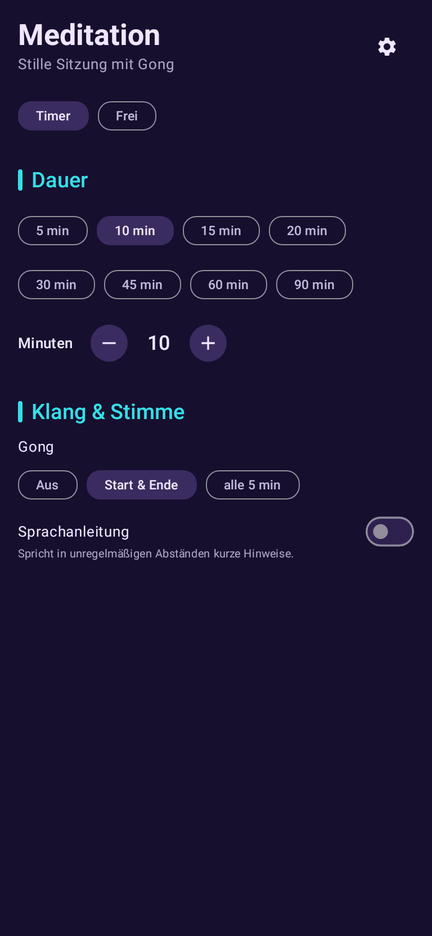
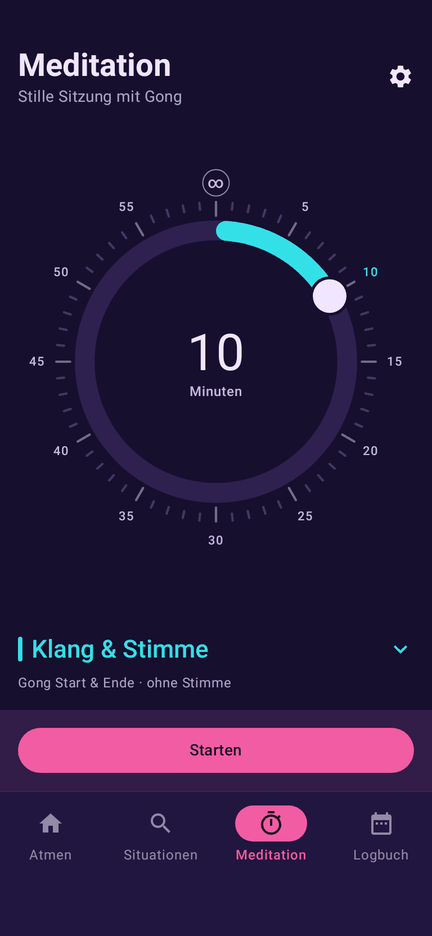
fix: Öffentliche Texte auf Stand 1.6.5, Heilversprechen-Prüfung auch für README und Store
- README: Stand Version 1.6.5 (Markierungen „ab Version 1.6.0“ bleiben, SECURITY.md
  Schritt 2), Meditation mit Zeitring 1–60 min oder ∞, Logbuch nach Heute/Gestern/Woche/Monat,
  Leeren unter Einstellungen → Daten, Sitzung mit Fortschrittsbogen, Ruhe-Ansicht und Bilanz,
  Markierung „Tut mir gut“; Projektstand ohne die Liste „Seitdem auf main“ (DOC-1)
- Store-Text full_description.txt mit denselben Sätzen (3737 von 4000 Zeichen), Disclaimer
  unverändert wörtlich
- README-Bilder neu aus a54/fs100 (01_atmen, 09_session_einatmen, 02_situationen,
  03_meditation, 04_logbuch), 432 × 936 px wie bisher
- PRIVACY.md: Löschweg Logbuch über Einstellungen → Daten, Markierung „Tut mir gut“,
  Benachrichtigungs-Flag und Rücksetz-Marke im Gespeicherten; Zeitring-Rasten folgen der
  Android-Einstellung, nicht dem Schalter „Vibration“ (auch README); Stand 2026-10-19 (DOC-2)
- SECURITY.md: unterstützte Version 1.6.x, DataStore-Inhalt und VIBRATE nachgezogen;
  Release-Checkliste um Funktionsliste, Store-Text, Datenschutzerklärung, README-Bilder und
  das Anhören der neuronalen Stimme in der Release-APK ergänzt
- bug_report.yml: Platzhalter 1.6.5
- ContentRulesTest health-claims-public (README, PRIVACY, Release-Notes, fastlane je Zeile,
  scharf ohne Baseline) und store-disclaimer (SEC-LEGAL-02 wörtlich) ersetzen die offenen
  sec-health-claims/sec-store-disclaimer (DOC-3); Probelauf mit „lindert“ in einer
[…]

diff --git a/app/src/test/java/app/atemkraft/data/ContentRulesTest.kt b/app/src/test/java/app/atemkraft/data/ContentRulesTest.kt
@@ -14,7 +14,8 @@ import java.io.File
 /**
  * Inhaltsregeln aus STYLEGUIDE §11 (TEXT-02, -04 … -06, -09 … -13), MUSTER-03, -09 und
  * MOTION-02, geprüft über alle Fachinhalte: eingebaute Übungen samt Yoga-Lehre, Muster des Tages
- * (Seeds 0–6), Atemlehre, Situationen samt Suchbegriffen, Quellen und `strings.xml`.
+ * (Seeds 0–6), Atemlehre, Situationen samt Suchbegriffen, Quellen und `strings.xml`; dazu die
+ * öffentlichen Texte (README, Datenschutzerklärung, Release-Notes, Store) auf Heilversprechen.
  *
  * Bekannte Verstöße stehen in `config/content-baseline.txt` (`Testfall | Datensatz | S-nn`).
  * Ein Fall schlägt fehl bei einem neuen Verstoß und bei einem Baseline-Eintrag, der nicht mehr
@@ -284,26 +285,54 @@ class ContentRulesTest {
             .filter { it.isNotBlank() && !it.trimStart().startsWith("#") }
     }
 
-    @Test
-    fun `health-claims`() {
-        val findings = allTexts.flatMap { t ->
-            // Eine Ausnahme deckt nur Treffer innerhalb ihres eigenen Wortlauts ab, nicht den
-            // ganzen Datensatz – ein zweites Versprechen im selben Text fällt weiter auf.
-            val allowed = healthClaimsAllow.flatMap { a ->
-                Regex(Regex.escape(a)).findAll(t.value).map { it.range }.toList()
-            }
-            healthClaims.flatMap { re -> re.findAll(t.value).toList() }
-                .filter { m -> allowed.none { m.range.first >= it.first && m.range.last <= it.last } }
-                .map { m -> Finding(t.id, "„${m.value}“") }
+    private fun healthClaimFindings(texts: List<Text>): List<Finding> = texts.flatMap { t ->
+        // Eine Ausnahme deckt nur Treffer innerhalb ihres eigenen Wortlauts ab, nicht den
+        // ganzen Datensatz – ein zweites Versprechen im selben Text fällt weiter auf.
+        val allowed = healthClaimsAllow.flatMap { a ->
+            Regex(Regex.escape(a)).findAll(t.value).map { it.range }.toList()
         }
-        // TEXT-09 lässt für Heilversprechen keine Baseline zu: jeder Fund ist ein Fehler, nur
-        // bewusste Verneinungen und Disclaimer stehen zeilengenau in health-claims.allow.
-        if (baseline["health-claims"].orEmpty().isNotEmpty()) {
-            fail("ContentRulesTest health-claims: keine Baseline erlaubt (TEXT-09), Einträge streichen")
+        healthClaims.flatMap { re -> re.findAll(t.value).toList() }
+            .filter { m -> allowed.none { m.range.first >= it.first && m.range.last <= it.last } }
+            .map { m -> Finding(t.id, "„${m.value}“") }
+    }
+
+    /**
+     * TEXT-09 lässt für Heilversprechen keine Baseline zu: jeder Fund ist ein Fehler, nur
+     * bewusste Verneinungen und Disclaimer stehen zeilengenau in health-claims.allow.
+     */
+    private fun assertNoHealthClaims(case: String, findings: List<Finding>) {
+        if (baseline[case].orEmpty().isNotEmpty()) {
+            fail("ContentRulesTest $case: keine Baseline erlaubt (TEXT-09), Einträge streichen")
         }
         if (findings.isNotEmpty()) {
-            fail("ContentRulesTest health-claims:\n" + findings.joinToString("\n") { "  ${it.dataset} – ${it.why}" })
+            fail("ContentRulesTest $case:\n" + findings.joinToString("\n") { "  ${it.dataset} – ${it.why}" })
         }
+    }
+
+    @Test
+    fun `health-claims`() {
+        assertNoHealthClaims("health-claims", healthClaimFindings(allTexts))
+    }
+
+    /**
+     * Öffentliche Texte außerhalb der App (SEC-LEGAL-01): README, Datenschutzerklärung,
+     * Release-Notes und Store-Texte samt Changelogs, je Zeile ein Datensatz `datei:zeile`.
+     */
+    private val publicTexts: List<Text> by lazy {
+        val files = listOf(repoFile("README.md"), repoFile("docs/PRIVACY.md")) +
+            repoFile("docs/release-notes").listFiles { f -> f.extension == "md" }.orEmpty().sorted() +
+            repoFile("fastlane/metadata/android/de-DE").walkTopDown().filter { it.isFile && it.extension == "txt" }.sorted()
+        val root = repoFile("README.md").absoluteFile.parentFile
+        files.filter { it.isFile }.flatMap { f ->
+            val name = f.absoluteFile.relativeTo(root).path
+            f.readLines().mapIndexed { i, line -> Text("$name:${i + 1}", line) }
+        }
+    }
+
+    @Test
+    fun `health-claims-public`() {
+        assumeTrue("README.md fehlt", repoFile("README.md").isFile)
+        assertNoHealthClaims("health-claims-public", healthClaimFindings(publicTexts))
     }
 
     // ---- TEXT-05: Jargon ----------------------------------------------------------------
@@ -504,6 +533,18 @@ class ContentRulesTest {
             f.readText().trim().takeIf { it.length > 500 }?.let { Finding("fastlane:changelogs/${f.name}", "${it.length} Zeichen > 500") }
         }
         assertAgainstBaseline("store-lengths", findings)
+    }
+
+    /** Der Disclaimer aus SECURITY.md SEC-LEGAL-02 steht wörtlich in der Store-Beschreibung. */
+    @Test
+    fun `store-disclaimer`() {
+        val file = repoFile("fastlane/metadata/android/de-DE/full_description.txt")
+        assumeTrue("fastlane/ gibt es noch nicht", file.isFile)
+        val disclaimer = "Kein Medizinprodukt; diagnostiziert, behandelt, heilt oder verhindert keine Erkrankung. " +
+            "Für medizinischen Rat wende dich an Fachpersonal."
+        if (disclaimer !in file.readText()) {
+            fail("ContentRulesTest store-disclaimer: full_description.txt enthält den Disclaimer aus SEC-LEGAL-02 nicht wörtlich")
+        }
     }
 
     // ---- Pfade --------------------------------------------------------------------------

diff --git a/docs/SECURITY.md b/docs/SECURITY.md
@@ -18,7 +18,7 @@ Sicherheits-, Datenschutz-, Lieferketten- und Release-Regeln für Atemkraft (`ap
 | Eingangsbestätigung | in der Regel innerhalb von 7 Tagen (Ein-Personen-Projekt) |
 | Ersteinschätzung | innerhalb von 30 Tagen |
 | Fix und Offenlegung | koordiniert; Ziel ist ein Fix innerhalb von 90 Tagen, danach ein GitHub Security Advisory mit Nennung (auf Wunsch) |
-| Unterstützte Version | nur die jeweils neueste Release-Version (derzeit 1.5.x), keine Backports |
+| Unterstützte Version | nur die jeweils neueste Release-Version (derzeit 1.6.x), keine Backports |
 | Nicht im Scope | gerootete oder kompromittierte Geräte, Reverse Engineering, fehlende Obfuskation oder Tamper-Erkennung (die App ist Open Source und enthält keine Geheimnisse) |
 
 ### Echtheit einer APK prüfen
@@ -51,9 +51,9 @@ Atemkraft ist **offline-first**: kein Konto, kein Server, keine Telemetrie, kein
 
 | Speicherort | Inhalt | Sensitivität | Gerät-zu-Gerät / Export | Löschweg |
 |---|---|---|---|---|
-| Room `log_entries` | Art (Atemübung/Meditation), Übung, Zeitpunkt, Dauer, Runden | gesundheitsnah, niedrig (Übungs-IDs können auf Erkrankungen hindeuten) | je nach Hersteller (ab Android 12) / nein | „Logbuch leeren“, App-Speicher löschen |
+| Room `log_entries` | Art (Atemübung/Meditation), Übung, Zeitpunkt, Dauer, Runden | gesundheitsnah, niedrig (Übungs-IDs können auf Erkrankungen hindeuten) | je nach Hersteller (ab Android 12) / nein | *Einstellungen → Daten → „Logbuch leeren“* (zweistufig), App-Speicher löschen |
 | Room `saved_patterns` | Name, Phasenlängen, Art (`activating`: aktivierend ja/nein) und Speicherzeitpunkt eigener Muster | niedrig | je nach Hersteller (ab Android 12) / ja (mit Anpassung) | einzeln löschen |
-| DataStore `settings` | Einstellungen (inkl. bestätigter Sicherheitshinweis `safety_acknowledged`), Anpassungen pro Übung, Aufklapp-Zustand „Meine Muster“ (`saved_patterns_expanded`), ob die Benachrichtigungs-Erlaubnis schon erfragt wurde (`notification_asked`) | niedrig | je nach Hersteller (ab Android 12) / nur Anpassungen gespeicherter Muster | zurücksetzen pro Übung, App-Speicher löschen |
+| DataStore `settings` | Einstellungen (inkl. bestätigter Sicherheitshinweis `safety_acknowledged`), Anpassungen pro Übung, Markierungen „Tut mir gut“ (`marked_exercises`), Aufklapp-Zustand „Meine Muster“ (`saved_patterns_expanded`), ob die Benachrichtigungs-Erlaubnis schon erfragt wurde (`notification_asked`), Zeitpunkt eines Zurücksetzens nach beschädigter Datei (`settings_reset_at`) | niedrig | je nach Hersteller (ab Android 12) / nur Anpassungen gespeicherter Muster | zurücksetzen pro Übung, App-Speicher löschen |
 | `files/tts/` | Stimmmodelle (öffentliche Daten, bis ca. 130 MB), beim Entpacken ein Zwischenordner `.<stimme>.staging` | keine | nein / nein | „Stimme löschen“ |
 | `cache/` | Teil-Download | keine | nein / nein | bei Abbruch oder Fehler sofort; nach Prozess-Ende beim nächsten Download-Versuch; Android leert `cache/` bei Speichermangel |
 | Activity-Zustand (flüchtig, `rememberSaveable`) | Suchtext der Befindens-Suche (SEC-PRIV-06) | gesundheitsnah | nein / nein | Suche schließen (X, Zurück, „Alle zeigen“), App beenden |
@@ -68,7 +68,7 @@ Vollständige Allowlist für das gemergte Release-Manifest (`config/security/per
 | Berechtigung | Zweck |
 |---|---|
 | `INTERNET` | nur der optionale Stimm-Download |
-| `VIBRATE` | Haptik bei Phasenwechseln und Tipp-Tick am Kreis (beides hinter dem Schalter „Vibration“) |
+| `VIBRATE` | Haptik bei Phasenwechseln und Tipp-Tick am Kreis (beides hinter dem Schalter „Vibration“); Rasten des Zeitrings als Berührungs-Feedback (`USAGE_TOUCH`, folgt der Android-Einstellung) |
 | `WAKE_LOCK` | Meditations-Timer im Doze-Modus (`PARTIAL_WAKE_LOCK`) |
 | `FOREGROUND_SERVICE`, `FOREGROUND_SERVICE_MEDIA_PLAYBACK` | Meditation läuft bei gesperrtem Bildschirm weiter |
 | `POST_NOTIFICATIONS` | Status der Meditation; einmal erfragt beim ersten Meditationsstart, bei Ablehnung läuft der Timer weiter |
@@ -172,8 +172,8 @@ Atemkraft ist eine Wellness-App und **kein Medizinprodukt** (MDR 2017/745, Erwä
 
 | ID | Stufe | Regel | Warum | Prüfung |
 |---|---|---|---|---|
-| SEC-LEGAL-01 | DARF NICHT | Heil-, Therapie-, Linderungs- oder Präventionsversprechen in App, README, Store-Texten, Datenschutzerklärung oder Release-Notes. Wortliste: STYLEGUIDE TEXT-09, maschinenlesbar `config/health-claims.txt`; Ausnahmen (Verneinungen, Disclaimer) nur zeilengenau in `config/health-claims.allow`. | Sonst Medizinprodukt bzw. irreführende Werbung (HWG § 3); Play Health Policy. | auto: `ContentRulesTest`, `sec-health-claims`, CI `release-verify` |
-| SEC-LEGAL-02 | MUSS | Die Store-Beschreibung enthält: „Kein Medizinprodukt; diagnostiziert, behandelt, heilt oder verhindert keine Erkrankung. Für medizinischen Rat wende dich an Fachpersonal.“ Mess-, Diagnose- oder Auswertungsfunktionen mit gesundheitlicher Bewertung kommen erst nach einer MDR-Neubewertung in diesem Dokument; vor einer Monetarisierung wird der EU Cyber Resilience Act neu bewertet. | Play Health Content Policy; MDR Rule 11; CRA-FOSS-Ausnahme gilt nur ohne Monetarisierung. | auto: `sec-store-disclaimer`; manuell: Review |
+| SEC-LEGAL-01 | DARF NICHT | Heil-, Therapie-, Linderungs- oder Präventionsversprechen in App, README, Store-Texten, Datenschutzerklärung oder Release-Notes. Wortliste: STYLEGUIDE TEXT-09, maschinenlesbar `config/health-claims.txt`; Ausnahmen (Verneinungen, Disclaimer) nur zeilengenau in `config/health-claims.allow`. | Sonst Medizinprodukt bzw. irreführende Werbung (HWG § 3); Play Health Policy. | auto: `ContentRulesTest` (`health-claims` für Inhalte und `strings.xml`, `health-claims-public` für die öffentlichen Texte), CI `release-verify` |
+| SEC-LEGAL-02 | MUSS | Die Store-Beschreibung enthält: „Kein Medizinprodukt; diagnostiziert, behandelt, heilt oder verhindert keine Erkrankung. Für medizinischen Rat wende dich an Fachpersonal.“ Mess-, Diagnose- oder Auswertungsfunktionen mit gesundheitlicher Bewertung kommen erst nach einer MDR-Neubewertung in diesem Dokument; vor einer Monetarisierung wird der EU Cyber Resilience Act neu bewertet. | Play Health Content Policy; MDR Rule 11; CRA-FOSS-Ausnahme gilt nur ohne Monetarisierung. | auto: `ContentRulesTest store-disclaimer`; manuell: Review |
 | SEC-LEGAL-03 | MUSS | Nur FLOSS-Abhängigkeiten. Jede gebündelte oder ladbare Komponente und Stimme hat eine Lizenz, die Weiterverbreitung erlaubt, und steht mit ihr in den Credits (App und THIRD_PARTY_LICENSES.md; README, Store-Texte und PRIVACY.md verweisen darauf, ohne Stimmen einzeln aufzuzählen). Keine Stimmen aus urheberrechtlich geschütztem Material; NC-Lizenzen nur als deklarierte Ausnahme (Anti-Feature). Lizenztexte und NOTICE-Dateien liegen im APK; für GPL-Bestandteile ist der Upstream-Quellstand genannt. | Urheberrecht; Apache-2.0 § 4, GPL-3.0 § 6; F-Droid und Play. | auto: JUnit `VoiceCatalogTest` (Lizenzfeld), `apk-licenses`; manuell: Credits |
 
 **Ist-Stand SEC-LEGAL-03 (2026-10-08):** Lizenzliste in [THIRD_PARTY_LICENSES.md](../THIRD_PARTY_LICENSES.md), Lizenztexte und NOTICE in der APK unter `assets/licenses/`, Liste in der App unter *Über → Lizenzen*, Lizenz je Stimme im Katalog. GLaDOS ist seit 1.6.0 entfernt (Nutzerentscheidung 2026-10-08: keine Lizenzangabe, laut Autor aus Spieldateien von Valve trainiert), samt Hörprobe; ein schon geladenes Modell löscht die App beim Start (`deleteOrphanVoiceDirs`), eine gespeicherte Wahl verwirft sie. **Deklarierte Ausnahme NC:** Miro und Dii stehen unter CC BY-NC-ND 4.0 (nur nicht kommerziell). Nutzerentscheidung 2026-10-08: behalten, weil Atemkraft kostenlos und werbefrei ist; bei jeder kommerziellen Nutzung (Preis, Werbung, Spenden-Paywall, Verkauf) neu prüfen. Stimmenauswahl und Lizenzliste in der App zeigen „nur nicht kommerziell“ (`VoiceSpec.nonCommercialOnly`, abgeleitet aus der Lizenz); ihre Hörproben liegen in der APK. Für F-Droid bzw. IzzyOnDroid ist das Anti-Feature *NonFreeAssets* zu deklarieren. Stimmen stehen nur in `VoiceCatalog.kt` und THIRD_PARTY_LICENSES.md (`LicenseInventoryTest`); eine Stimme hinzufügen oder entfernen heißt: Katalog, Lizenzliste, Hörprobe.
@@ -181,7 +181,7 @@ Atemkraft ist eine Wellness-App und **kein Medizinprodukt** (MDR 2017/745, Erwä
 <a id="automatische-pruefung"></a>
 ## Automatische Prüfung
 
-Gemeinsame Infrastruktur (`scripts/check.sh`, `lint {}`, `.github/workflows/ci.yml`) spezifiziert der STYLEGUIDE; hier stehen die Sicherheits-Checks. Die statischen Checks (`sec-*`, Werkzeug **check-style**) stehen seit 2026-10-19 in `scripts/check_style.py` und laufen bei jedem `scripts/check.sh`, also auch im CI: gleiche Engine und Fixtures (`config/style-fixtures/sec-*.{pos,neg}`, `--self-test`) wie die Stil-Checks, aber mit Null-Toleranz ohne Baseline – ein Baseline-Eintrag für einen `sec-*`-Check ist selbst ein Fehler. Zeilen, die mit `//`, `/*` oder `*` beginnen, gelten als Kommentar; die Stil-Marker `// dekorativ:` und `// Abweichung <ID>:` heben einen `sec-*`-Treffer nicht auf (`--self-test` prüft das mit einer Gegenprobe je Fixture). Soll-Setup, noch nicht vorhanden: `verify-apk`, `check-github`, `release-verify` sowie die mit **offen** markierten Checks.
+Gemeinsame Infrastruktur (`scripts/check.sh`, `lint {}`, `.github/workflows/ci.yml`) spezifiziert der STYLEGUIDE; hier stehen die Sicherheits-Checks. Die statischen Checks (`sec-*`, Werkzeug **check-style**) stehen seit 2026-10-19 in `scripts/check_style.py` und laufen bei jedem `scripts/check.sh`, also auch im CI: gleiche Engine und Fixtures (`config/style-fixtures/sec-*.{pos,neg}`, `--self-test`) wie die Stil-Checks, aber mit Null-Toleranz ohne Baseline – ein Baseline-Eintrag für einen `sec-*`-Check ist selbst ein Fehler. Zeilen, die mit `//`, `/*` oder `*` beginnen, gelten als Kommentar; die Stil-Marker `// dekorativ:` und `// Abweichung <ID>:` heben einen `sec-*`-Treffer nicht auf (`--self-test` prüft das mit einer Gegenprobe je Fixture). Die Prüfung öffentlicher Texte auf Heilversprechen und den Store-Disclaimer übernimmt der JUnit-Test `ContentRulesTest` (`health-claims-public`, `store-disclaimer`), weil er Wortliste und Ausnahmen schon für die App-Inhalte liest. Soll-Setup, noch nicht vorhanden: `verify-apk`, `check-github`, `release-verify` sowie die mit **offen** markierten Teile.
 
 ```bash
 scripts/check.sh                                     # Stil- und sec-*-Checks, ktlint, Tests, Lint
@@ -213,8 +213,8 @@ scripts/check-github.sh                              # Soll: Repo-Einstellungen 
 | `sec-secrets` | check-style | SEC-BUILD-02 | in getrackten und neuen, nicht ignorierten Dateien keine Zeile `^(store\|key)Password\s*[=:]`. Ignorierte Dateien (z. B. `keystore.properties` im Root) prüft der Check nicht; dass sie außerhalb des Repo-Baums liegen, sichert Checkliste Schritt 15. **Offen:** `.claude/settings.json` mit Deny-Regeln für `Read(**/keystore.properties)`, `Read(**/*.keystore)`, `Read(**/*.jks)` (liegt nicht im Repo) |
 | `sec-gitignore` | check-style | SEC-REPO-01 | `git check-ignore -q` greift (per Repo-`.gitignore`) für `x.jks`, `x.p12`, `sub/keystore.properties`, `x.idsig`, `.claude/settings.local.json` |
 | `sec-actions` | check-style | SEC-REPO-03, SEC-SUP-03 | jedes `uses:` in `.github/workflows/*.yml` endet auf `@[0-9a-f]{40}`; `permissions:` auf oberster Ebene; `persist-credentials: false`; `.github/dependabot.yml` hat `package-ecosystem` `gradle` und `github-actions` mit `interval: monthly` und `groups:` |
-| `sec-health-claims` | **offen** | SEC-LEGAL-01 | Wortliste `config/health-claims.txt` (ohne Groß-/Kleinschreibung, Wortgrenzen) in `README.md`, `fastlane/metadata/**`, `docs/PRIVACY.md`, `docs/release-notes/*.md` → 0, außer Zeilen aus `config/health-claims.allow` |
-| `sec-store-disclaimer` | **offen** | SEC-LEGAL-02 | `full_description.txt` enthält den Disclaimer-Satz aus SEC-LEGAL-02 wörtlich (fester String) |
+| `health-claims-public` | JUnit `ContentRulesTest` | SEC-LEGAL-01 | Wortliste `config/health-claims.txt` (ohne Groß-/Kleinschreibung, Wortgrenzen) in `README.md`, `fastlane/metadata/**`, `docs/PRIVACY.md`, `docs/release-notes/*.md` → 0, außer Zeilen aus `config/health-claims.allow`; je Zeile ein Datensatz `datei:zeile`, ohne Baseline |
+| `store-disclaimer` | JUnit `ContentRulesTest` | SEC-LEGAL-02 | `full_description.txt` enthält den Disclaimer-Satz aus SEC-LEGAL-02 wörtlich (fester String) |
 | `apk-cert` | verify-apk | SEC-BUILD-01 | `apksigner verify --print-certs`: Signer = `75022def…1890`; unsigniert ist immer ein Fehler, `CN=Android Debug` ebenso (`--allow-debug-cert` nur für CI-Testbuilds) |
 | `apk-permissions` | verify-apk | SEC-PERM-01 | `aapt2 dump permissions` = `config/security/permissions.allow` |
 | `apk-exported` | verify-apk | SEC-PLAT-01 | Komponenten mit `exported=true` ⊆ `config/security/exported.allow` |
@@ -233,11 +233,11 @@ scripts/check-github.sh                              # Soll: Repo-Einstellungen 
 **Ist-Stand (2026-10-19):** Die statischen `sec-*`-Checks laufen in `scripts/check.sh` (Schritt 1). `scripts/verify-apk.sh`, `scripts/check-github.sh` und der CI-Job `release-verify` sind Soll-Setup und gibt es noch nicht; die Schritte nennen dafür den manuellen Ersatz. Bis v1.5.1 waren die Tags nicht annotiert, und der Release-Commit enthielt die Versionsänderung selbst.
 
 1. `git status` leer, `main` gepusht, `scripts/check.sh` grün.
-2. `versionCode` +1, `versionName` gesetzt; Release-Notes `docs/release-notes/vX.Y.Z.md` und Changelog `fastlane/metadata/android/de-DE/changelogs/<versionCode>.txt` geschrieben (SEC-LEGAL-01). Die Notes-Datei enthält nur die Änderungen; SHA-256 und Fingerprint kommen in Schritt 7 dazu. Versionsangaben nachziehen: „Neueste Version“ im README, „Unterstützte Version“ in diesem Dokument und der Stand in `THIRD_PARTY_LICENSES.md`; Markierungen „ab Version X.Y.Z“ in README und Datenschutzerklärung bleiben gültig.
+2. `versionCode` +1, `versionName` gesetzt; Release-Notes `docs/release-notes/vX.Y.Z.md` und Changelog `fastlane/metadata/android/de-DE/changelogs/<versionCode>.txt` geschrieben (SEC-LEGAL-01). Die Notes-Datei enthält nur die Änderungen; SHA-256 und Fingerprint kommen in Schritt 7 dazu. Versionsangaben nachziehen: „Neueste Version“ im README, „Unterstützte Version“ in diesem Dokument und der Stand in `THIRD_PARTY_LICENSES.md`; Markierungen „ab Version X.Y.Z“ in README und Datenschutzerklärung bleiben gültig. Inhalte nachziehen: Funktionsliste im README und `fastlane/metadata/android/de-DE/full_description.txt` (gleiche Sätze), Datenschutzerklärung samt Berechtigungstabelle gegen den Code, bei sichtbaren Änderungen die README-Bilder `docs/screenshot-*.png` (aus den Roborazzi-Bildern `a54/fs100`: `01_atmen`, `09_session_einatmen`, `02_situationen`, `03_meditation`, `04_logbuch`, obere Bildschirmhöhe 768 × 1664 px auf 432 × 936 px verkleinert).
 3. Release-Commit `vX.Y.Z: …` und annotierter Tag `git tag -a vX.Y.Z` gepusht.
 4. Im frischen Worktree des Tags mit JDK 17 bauen: `git worktree add ../atemkraft-rel vX.Y.Z`, dort mit `ATEMKRAFT_KEYSTORE_PROPERTIES=<pfad>` (`storeFile` absolut oder relativ zur Properties-Datei) `scripts/build.sh clean assembleRelease`; Signatur-Geheimnisse nach SEC-BUILD-02. Fehlt der Key, entsteht nur eine unsignierte APK (Warnung), die Schritt 5 abfängt.
 5. `scripts/verify-apk.sh <apk> --tag vX.Y.Z` grün. Mindestens: `apksigner verify --print-certs` zeigt `75022def…1890`, **Abbruch bei unsignierter APK oder `CN=Android Debug`**. Solange das Skript fehlt: `$ANDROID_HOME/build-tools/<version>/apksigner verify --print-certs <apk>` muss `Signer #1 certificate DN: CN=grenzenloseSchublade, O=Atemkraft` und `Signer #1 certificate SHA-256 digest: 75022defe65aa24e223f3e79880f09f423456757002ff0b33ba2ae29b9f41890` zeigen.
-6. Auf einem Gerät als Update über die Vorversion installieren: kein Signaturkonflikt, Logbuch bleibt, kurzer Test von Atem-Session, Meditation und Stimme.
+6. Auf einem Gerät als Update über die Vorversion installieren: kein Signaturkonflikt, Logbuch bleibt, kurzer Test von Atem-Session, Meditation und Stimme. Die neuronale Stimme einmal in der Release-APK anhören: Der Release-Build in `check.sh` prüft R8 und Shrinking nur beim Bauen, einen JNI-Bruch zur Laufzeit findet erst das Gerät.
 7. APK als `atemkraft-vX.Y.Z.apk` benennen; Release-Body als eigene Datei außerhalb des Repo-Baums = Notes-Datei + Block mit SHA-256 (`sha256sum atemkraft-vX.Y.Z.apk`, Zeile „SHA-256 der APK:“ wie bei v1.5.1) und Verweis auf den Fingerprint ([Echtheit einer APK prüfen](#echtheit-einer-apk-prüfen)), dazu ein Satz zu Quellcode und Lizenzen neben der APK (GPL-3.0 § 6): Quellcode dieses Releases ist der Tag `vX.Y.Z`, der Quellstand der Native-Bibliotheken steht in [THIRD_PARTY_LICENSES.md](../THIRD_PARTY_LICENSES.md#quellcode).
 8. `gh release create vX.Y.Z atemkraft-vX.Y.Z.apk --title … --notes-file <datei>`. Ein Asset wird nie ersetzt (SEC-BUILD-05).
 9. CI `release-verify` grün, sonst manuell: Asset mit `gh release download vX.Y.Z` laden, `sha256sum` mit dem Release-Body und `apksigner` wie in Schritt 5 vergleichen.

diff --git a/README.md b/README.md
@@ -8,10 +8,10 @@ Atemkraft ist eine Wellness-App und kein Medizinprodukt. Sie ersetzt keinen Rat 
 
 <p>
   <img src="docs/screenshot-atmen.png" width="160" alt="Tab Atmen: Muster des Tages und Liste der Atemübungen">
-  <img src="docs/screenshot-sitzung.png" width="160" alt="Laufende Sitzung: Atemkreis mit „Einatmen“ und Sekunden-Zähler">
+  <img src="docs/screenshot-sitzung.png" width="160" alt="Laufende Sitzung: Atemkreis mit „Einatmen“, Sekunden und Fortschrittsbogen">
   <img src="docs/screenshot-situationen.png" width="160" alt="Tab Situationen: Meine Muster und Anlässe wie „Vor dem Einschlafen“">
-  <img src="docs/screenshot-meditation.png" width="160" alt="Tab Meditation: Dauer, Gong und Sprachanleitung">
-  <img src="docs/screenshot-logbuch.png" width="160" alt="Tab Logbuch: Wochenübersicht und abgeschlossene Sitzungen">
+  <img src="docs/screenshot-meditation.png" width="160" alt="Tab Meditation: Zeitring für die Dauer, darunter Klang und Stimme">
+  <img src="docs/screenshot-logbuch.png" width="160" alt="Tab Logbuch: Wochenübersicht und Sitzungen nach Heute, Gestern und Woche">
 </p>
 
 **Inhalt:** [Funktionen](#funktionen) · [Installieren](#installieren) · [Datenschutz](#datenschutz) · [Rückmeldung](#rueckmeldung) · [Mitmachen](#mitmachen) · [Aus dem Quellcode bauen](#bauen) · [Projektstand](#projektstand) · [Lizenz](#lizenz)
@@ -19,14 +19,14 @@ Atemkraft ist eine Wellness-App und kein Medizinprodukt. Sie ersetzt keinen Rat 
 <a id="funktionen"></a>
 ## Funktionen
 
-Beschrieben ist der aktuelle Entwicklungsstand (`main`). Was die neueste Release-Version 1.5.1 noch nicht hat, ist mit *ab Version 1.6.0* markiert.
+Beschrieben ist der aktuelle Entwicklungsstand (`main`), Stand Version 1.6.5. Was es erst ab Version 1.6.0 gibt, ist mit *ab Version 1.6.0* markiert.
 
-- **Atmen:** 18 Atemtechniken in vier Gruppen (Herunterregeln, Hochregeln, Balancieren, Funktionell), z. B. Resonanz-Atmung, 4-7-8, Box-Atmung, Lippenbremse. Jede Übung hat Anleitung, Einordnung der Studienlage, Sicherheitshinweise und Quellenangaben, in der Regel mit DOI oder PMID. Ein Etikett zeigt die Studienlage auf einen Blick: „gut belegt“ (Meta-Analyse oder mehrere unabhängige Studien), „in Studien geprüft“ (Studien gibt es, aber wenige, kleine oder nur in bestimmten Gruppen) oder „kaum untersucht“ (plausibel, aber kaum direkt erforscht). Bei getakteten Übungen lassen sich Ein-, Aus- und Halte-Zeiten anpassen; die Anpassung bleibt pro Übung gespeichert. Vor Wim Hof und Feueratmung erscheint ein Sicherheitshinweis, beim ersten Mal immer.
-- **Sitzung:** Der Kreis wächst beim Einatmen und schrumpft beim Ausatmen. Wahlweise Wechseltöne oder ein durchgehender Ton, dazu Vibration bei jedem Phasenwechsel; alles abschaltbar. Eine laufende Sitzung lässt sich zu einer Leiste verkleinern.
+- **Atmen:** 18 Atemtechniken in vier Gruppen (Herunterregeln, Hochregeln, Balancieren, Funktionell), z. B. Resonanz-Atmung, 4-7-8, Box-Atmung, Lippenbremse. Jede Übung hat Anleitung, Einordnung der Studienlage, Sicherheitshinweise und Quellenangaben, in der Regel mit DOI oder PMID. Ein Etikett zeigt die Studienlage auf einen Blick: „gut belegt“ (Meta-Analyse oder mehrere unabhängige Studien), „in Studien geprüft“ (Studien gibt es, aber wenige, kleine oder nur in bestimmten Gruppen) oder „kaum untersucht“ (plausibel, aber kaum direkt erforscht). Bei getakteten Übungen lassen sich Ein-, Aus- und Halte-Zeiten anpassen; die Anpassung bleibt pro Übung gespeichert. Vor Wim Hof und Feueratmung erscheint ein Sicherheitshinweis, beim ersten Mal immer. Übungen, die dir guttun, markierst du auf der Detailseite mit dem Atemkreis-Symbol „Tut mir gut“; die Liste zeigt die Markierung.
+- **Sitzung:** Der Kreis wächst beim Einatmen und schrumpft beim Ausatmen; ein Bogen um den Kreis zeigt, wie weit die Sitzung ist. Ein Tipp neben den Kreis blendet die Bedienelemente aus (Ruhe-Ansicht), ein zweiter holt sie zurück. Am Ende fragt die App „Wie fühlst du dich?“ und zeigt eine kurze Bilanz mit Runden, Dauer und Atemzügen. Wahlweise Wechseltöne oder ein durchgehender Ton, dazu Vibration bei jedem Phasenwechsel; alles abschaltbar. Eine laufende Sitzung lässt sich zu einer Leiste verkleinern.
 - **Muster des Tages:** jeden Tag ein neues, zufällig erzeugtes Atemmuster, gleich für alle am selben Tag. Es bleibt in festen Grenzen und zählt in ganzen Sekunden (ruhige Muster: 9–13 s pro Atemzug, Ausatmen mindestens so lang wie Einatmen, Halten höchstens 4 s; sanft aktivierende: 6–9 s, Einatmen länger als Ausatmen, Halten höchstens 2 s). Seine Einordnung nach der Yoga-Lehre steht auf der Detailseite. Gedacht als Abwechslung, ohne Wirkversprechen. Muster lassen sich neu würfeln und speichern; gespeicherte stehen unter „Meine Muster“.
 - **Situationen:** Einstiege nach Anlass, etwa „Vor dem Einschlafen“ oder „Konzentration & Fokus“, mit passenden Übungen. *Ab Version 1.6.0* mit Suche nach deinem Befinden („Wie fühlst du dich?“): Sie läuft ohne Netz und wird nicht gespeichert.
-- **Meditation:** Timer (Schnellwahl 5–90 min, frei 1–120 min) oder offene Sitzung mit Stoppuhr. Gong aus, zu Start und Ende oder in festen Abständen. Optional eine gesprochene Anleitung: mit der Sprachausgabe deines Geräts oder mit einer ladbaren deutschen Stimme, die du vorher anhören kannst. Die Meditation läuft auch bei ausgeschaltetem Bildschirm weiter.
-- **Logbuch:** abgeschlossene Sitzungen mit Wochenübersicht, Tagen in Folge und Minuten gesamt; lässt sich jederzeit leeren.
+- **Meditation:** Die Dauer stellst du an einem Zeitring ein: 1–60 min in Minutenschritten oder ∞ für eine offene Sitzung mit Stoppuhr. Gong aus, zu Start und Ende oder in festen Abständen. Optional eine gesprochene Anleitung: mit der Sprachausgabe deines Geräts oder mit einer ladbaren deutschen Stimme, die du vorher anhören kannst. Die Meditation läuft auch bei ausgeschaltetem Bildschirm weiter.
+- **Logbuch:** abgeschlossene Sitzungen, gegliedert nach Heute, Gestern, Woche und Monat, dazu Wochenübersicht, Tage in Folge und Minuten gesamt. Leeren lässt es sich in den Einstellungen unter „Daten“.
 - **Begriffe erklärt:** ein Glossar für Fachwörter wie HRV oder Vagus.
 - **Daten sichern** (*ab Version 1.6.0*): gespeicherte Muster als Datei exportieren und wieder importieren, an einen Ort deiner Wahl.
 
@@ -72,7 +72,7 @@ Alle Einzelheiten, auch was bis Version 1.5.1 anders ist: [Datenschutzerklärung
 | Berechtigung | Wofür |
 |---|---|
 | `INTERNET` | nur das Laden einer Stimme |
-| `VIBRATE` | fühlbare Phasenwechsel und ein kurzer Tick beim Antippen des Kreises; mit dem Schalter „Vibration“ abschaltbar, den Tick erst ab Version 1.6.0 |
+| `VIBRATE` | fühlbare Phasenwechsel und ein kurzer Tick beim Antippen des Kreises; beides folgt dem Schalter „Vibration“, den Tick erst ab Version 1.6.0. Die Rasten des Zeitrings sind Berührungs-Feedback und folgen der Android-Einstellung dafür (ab 1.6.5) |
 | `WAKE_LOCK` | hält den Prozessor während einer Meditation wach, damit Gongs pünktlich kommen |
 | `FOREGROUND_SERVICE`, `FOREGROUND_SERVICE_MEDIA_PLAYBACK` | Meditation läuft bei ausgeschaltetem Bildschirm weiter |
 | `POST_NOTIFICATIONS` | Benachrichtigung „Meditation läuft“ mit „Beenden“; ohne sie läuft der Timer trotzdem |
@@ -118,7 +118,7 @@ ui/       theme/, components/ und je Screen ein Paket
 <a id="projektstand"></a>
 ## Projektstand
 
-- **Neueste Version:** [1.5.1](https://github.com/grenzenloseSchublade/atemkraft/releases/latest). Seitdem auf `main`: Befindens-Suche, Export und Import der Muster, kein Cloud-Backup mehr, die Stimme GLaDOS entfernt (keine Lizenz), Feinschliff an Schrift und Bedienelementen sowie viele kleine Korrekturen.
+- **Neueste Version:** 1.6.5 (Tag `v1.6.5`); was sich je Version geändert hat, steht in [docs/release-notes](docs/release-notes). Die APKs veröffentlichter Versionen liegen unter [Releases](https://github.com/grenzenloseSchublade/atemkraft/releases).
 - **Verteilung:** GitHub-Releases. Wegen der vorkompilierten sherpa-onnx-Bibliothek (`app/libs/*.aar`) passt die App nicht ins Haupt-Repo von F-Droid, das alles aus dem Quellcode baut; IzzyOnDroid wäre ein passender Kanal.
 - **Ideen:** eigene Übungen per Editor, Wear OS, Widgets. Eine eigene Stimme für die Meditationsanleitung: Anleitung in [docs/VOICE_CLONING.md](docs/VOICE_CLONING.md).
 - **iOS:** Recherche und Plan, noch nicht umgesetzt: [docs/IOS_PLAN.md](docs/IOS_PLAN.md).

diff --git a/docs/PRIVACY.md b/docs/PRIVACY.md
@@ -2,7 +2,7 @@
 
 Für die Android-App Atemkraft (`app.atemkraft`), wie sie über dieses Repo und seine GitHub-Releases verteilt wird.
 
-- **Stand:** 2026-10-08, geprüft gegen den Quellcode auf `main` an diesem Tag. Wo sich die veröffentlichte Version 1.5.1 davon unterscheidet, steht es dabei ([Stimm-Download](#netz), [Cloud-Backup](#wechsel), [Berechtigungen](#berechtigungen)); Befindens-Suche sowie Export und Import der Muster gibt es erst ab Version 1.6.0.
+- **Stand:** 2026-10-19, geprüft gegen Version 1.6.5 und den Quellcode auf `main` an diesem Tag. Wo sich die veröffentlichte Version 1.5.1 davon unterscheidet, steht es dabei ([Stimm-Download](#netz), [Cloud-Backup](#wechsel), [Berechtigungen](#berechtigungen)); Befindens-Suche sowie Export und Import der Muster gibt es erst ab Version 1.6.0.
 - **Anbieter:** grenzenloseSchublade, Maintainer von [github.com/grenzenloseSchublade/atemkraft](https://github.com/grenzenloseSchublade/atemkraft). Kontakt siehe [unten](#kontakt).
 
 ## Kurzfassung
@@ -15,9 +15,9 @@ Alles liegt im privaten Speicher der App, den andere Apps nicht lesen können. D
 
 | Ort | Inhalt | So löschst du es |
 |---|---|---|
-| Logbuch (Datenbank) | abgeschlossene Sitzungen: Übung bzw. Meditation, Zeitpunkt, Dauer, Runden | „Logbuch leeren“ im Logbuch; App-Speicher löschen |
+| Logbuch (Datenbank) | abgeschlossene Sitzungen: Übung bzw. Meditation, Zeitpunkt, Dauer, Runden *Einstellungen → Daten → „Logbuch leeren“* (ein zweiter Tipp bestätigt); App-Speicher löschen |
 | Eigene Muster (Datenbank) | Name, Phasenlängen und Art (aktivierend oder nicht) gespeicherter Muster, Zeitpunkt des Speicherns | einzeln löschen unter „Meine Muster“ |
-| Einstellungen | Ton, Haptik, Hinweise (auch, ob du den Sicherheitshinweis vor intensiven Übungen bestätigt hast), Meditation, gewählte Stimme, Anpassungen pro Übung, ob „Meine Muster“ aufgeklappt ist | pro Übung zurücksetzen; App-Speicher löschen |
+| Einstellungen | Ton, Haptik, Hinweise (auch, ob du den Sicherheitshinweis vor intensiven Übungen bestätigt hast), Meditation, gewählte Stimme, Anpassungen pro Übung, Übungen, die du mit „Tut mir gut“ markiert hast, ob „Meine Muster“ aufgeklappt ist, ob die App schon nach der Benachrichtigung gefragt hat und, falls die Einstellungsdatei einmal beschädigt war, wann die App sie zurückgesetzt hat | Anpassungen pro Übung zurücksetzen; Markierung durch erneutes Antippen aufheben; App-Speicher löschen |
 | Stimmen | heruntergeladene Stimmmodelle (öffentliche Dateien; die Größe zeigt die App vor dem Laden) | „Stimme löschen“ in den Einstellungen. Die bis Version 1.5.1 angebotene Stimme GLaDOS löscht die App ab Version 1.6.0 beim Start selbst |
 | Zwischenspeicher | ein laufender Download und beim Entpacken ein Zwischenordner | bei Abbruch oder Fehler löscht die App beides sofort; wird die App mittendrin beendet, beim nächsten Versuch. Den Download-Cache leert Android auch bei Speichermangel |
 
@@ -70,7 +70,7 @@ Die App ist vom Android-Cloud-Backup ausgeschlossen. Ab Android 12 kann die dire
 | Berechtigung | Wofür |
 |---|---|
 | Internet (`INTERNET`) | nur der Stimm-Download |
-| Vibration (`VIBRATE`) | fühlbare Phasenwechsel und ein kurzer Tick beim Antippen des Kreises; beides mit dem Schalter „Vibration“ abschaltbar. **Bis einschließlich Version 1.5.1** vibriert der Tick auch bei ausgeschaltetem Schalter |
+| Vibration (`VIBRATE`) | fühlbare Phasenwechsel und ein kurzer Tick beim Antippen des Kreises; beides folgt dem Schalter „Vibration“. Die Rasten des Zeitrings in der Meditation (ab Version 1.6.5) sind Berührungs-Feedback und folgen der Android-Einstellung dafür, nicht dem Schalter. **Bis einschließlich Version 1.5.1** vibriert der Tick auch bei ausgeschaltetem Schalter |
 | Aktiv halten (`WAKE_LOCK`) | hält den Prozessor während einer laufenden Meditation wach, damit Gongs pünktlich kommen |
 | Vordergrunddienst (`FOREGROUND_SERVICE`, `FOREGROUND_SERVICE_MEDIA_PLAYBACK`) | Meditation läuft bei ausgeschaltetem Bildschirm weiter |
 | Benachrichtigungen (`POST_NOTIFICATIONS`) | Status der laufenden Meditation mit „Beenden“; ab Android 13 fragt die App einmal danach, beim ersten Start einer Meditation. Lehnst du ab, läuft der Timer trotzdem |
